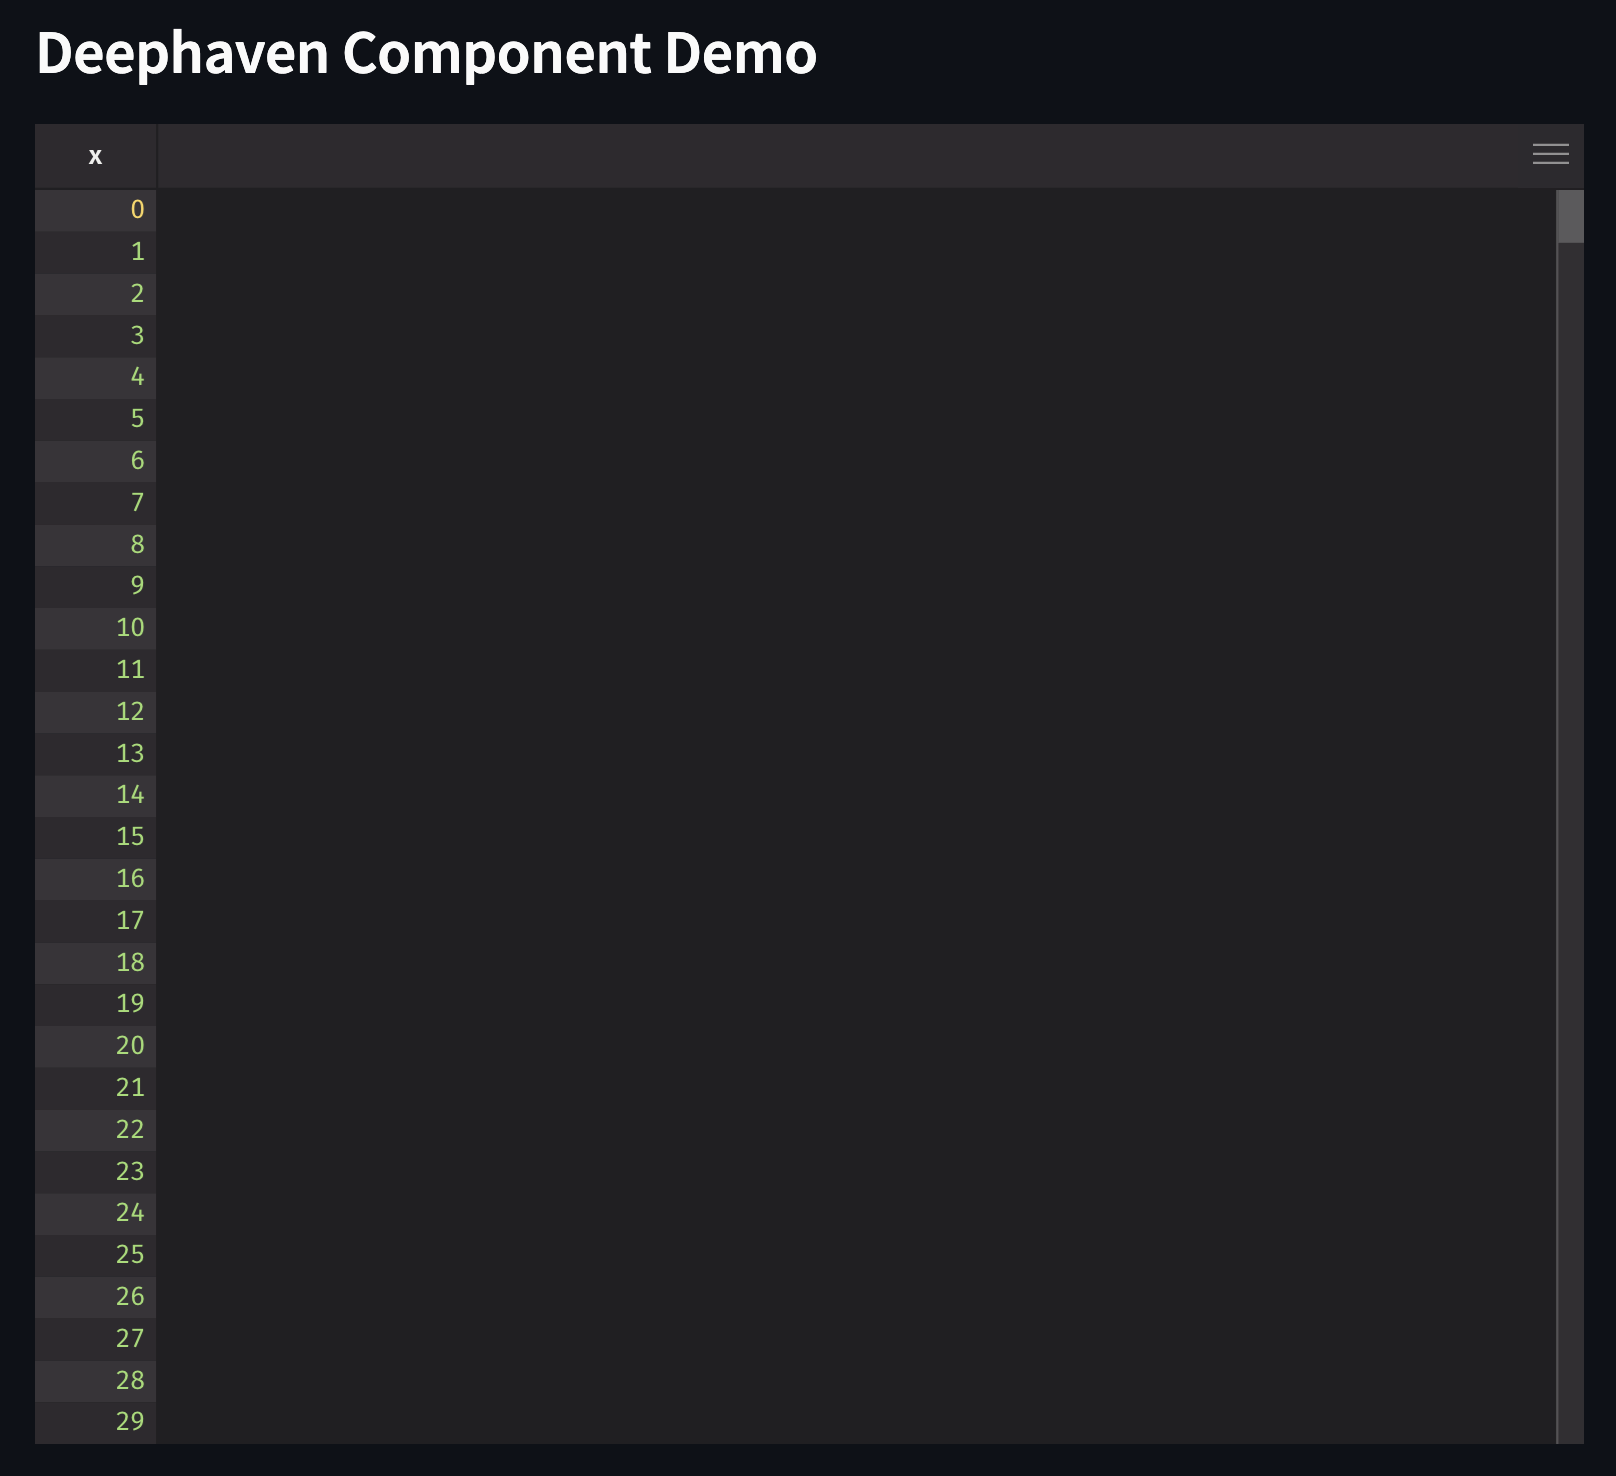
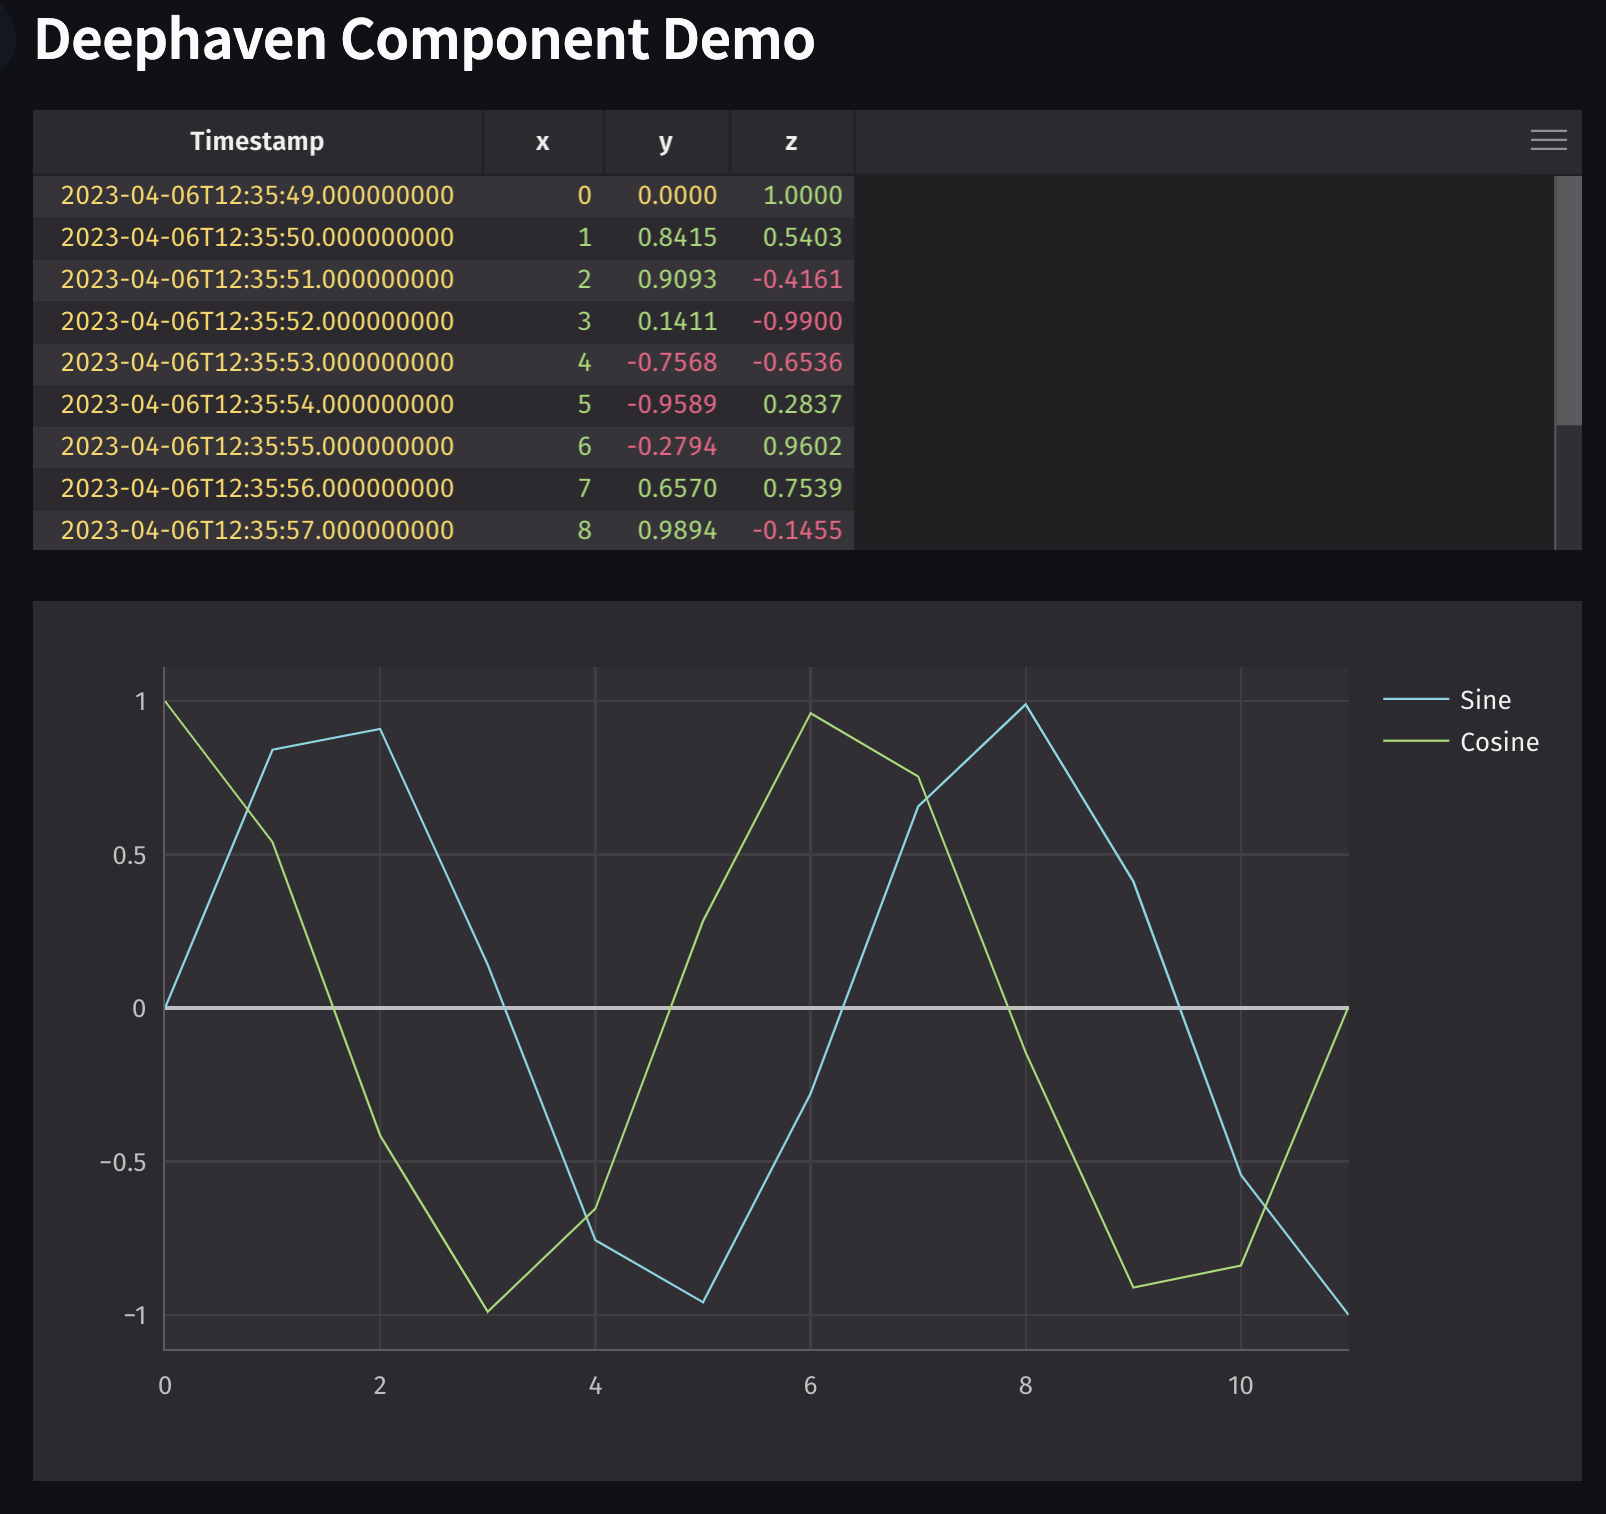
Deephaven contexts (#1)
* Update project name to `streamlit-deephaven`
* Use `display_dh` instead of `deephaven_component`
* Add `start_server` method to start the server and open the context
* Update the README and development guide

diff --git a/streamlit_deephaven/__init__.py b/streamlit_deephaven/__init__.py
@@ -2,12 +2,10 @@ import __main__
 import os
 import streamlit.components.v1 as components
 from uuid import uuid4
+import streamlit as st
+from typing import Dict, List, Optional
 
-# Create a _RELEASE constant. We'll set this to False while we're developing
-# the component, and True when we're ready to package and distribute it.
-# (This is, of course, optional - there are innumerable ways to manage your
-# release process.)
-_RELEASE = False
+DEV_MODE = os.environ.get("DH_DEV_MODE", False)
 
 def _str_object_type(obj):
   """Returns the object type as a string value"""
@@ -23,22 +21,49 @@ def _path_for_object(obj):
     return 'chart'
   raise TypeError(f"Unknown object type: {name}")
 
+def open_ctx():
+  """Open the Deephaven execution context. Required before performing any operations on the server."""
+  from deephaven_server import Server
+  # We store the execution context as an attribute on the server instance
+  if not hasattr(Server.instance, '__deephaven_ctx'):
+    print("Initializing Context...")
+
+    from deephaven.execution_context import get_exec_ctx
+    Server.instance.__deephaven_ctx = get_exec_ctx()
+  print("Opening context...")
+  Server.instance.__deephaven_ctx.j_exec_ctx.open()
+  return Server.instance.__deephaven_ctx
+
+def start_server(host: Optional[str] = None, port: Optional[int] = None, jvm_args: Optional[List[str]] = None, dh_args: Dict[str, str] = {}):
+  """Initialize the Deephaven server. This will start the server if it is not already running."""
+  from deephaven_server import Server
+  if Server.instance is None:
+    print("Initializing Deephaven Server...")
+    s = Server(host=host, port=port, jvm_args=jvm_args, dh_args=dh_args)
+    s.start()
+    print("Deephaven Server listening on port", s.port)
+
+  open_ctx()
+  return Server.instance
+
 # Create a wrapper function for the component. This is an optional
 # best practice - we could simply expose the component function returned by
 # `declare_component` and call it done. The wrapper allows us to customize
 # our component's API: we can pre-process its input args, post-process its
 # output value, and add a docstring for users.
-def deephaven_component(deephaven_object, height=600, width=None, key=None):
-    """Create a new instance of "deephaven_component".
+def display_dh(widget, height=600, width=None, object_id=None, key=None):
+    """Display a Deephaven widget.
 
     Parameters
     ----------
-    table: deephaven.table.Table | deephaven.plot.figure.Figure | pandas.core.frame.DataFrame
+    widget: deephaven.table.Table | deephaven.plot.figure.Figure | pandas.core.frame.DataFrame
         The Deephaven widget we want to display
     height: int
         The height of the widget in pixels
     width: int
         The width of the widget in pixels
+    object_id: string
+        The variable name of the Deephaven widget we want to display
     key: str or None
         An optional key that uniquely identifies this component. If this is
         None, and the component's arguments are changed, the component will
@@ -59,18 +84,17 @@ def deephaven_component(deephaven_object, height=600, width=None, key=None):
     # "default" is a special argument that specifies the initial return
     # value of the component before the user has interacted with it.
 
-    # Generate a new table ID using a UUID prepended with a `t_` prefix
-    object_id = f"t_{str(uuid4()).replace('-', '_')}"
+    # Generate a new table ID using a UUID prepended with a `__w_` prefix if name not specified
+    if object_id is None:
+        object_id = f"__w_{str(uuid4()).replace('-', '_')}"
 
-    print("Setting iframe_url...")
     # Generate the iframe_url from the object type
     server_url = f"http://localhost:{Server.instance.port}"
-    iframe_url = f"{server_url}/iframe/{_path_for_object(deephaven_object)}/?name={object_id}"
-    object_type = _str_object_type(deephaven_object)
-
+    iframe_url = f"{server_url}/iframe/{_path_for_object(widget)}/?name={object_id}"
+    object_type = _str_object_type(widget)
 
     # Add the table to the main modules globals list so it can be retrieved by the iframe
-    __main__.__dict__[object_id] = deephaven_object
+    __main__.__dict__[object_id] = widget
 
     # We don't really need the component value in the Deephaven example, since we're just creating a display widget...
     # Maybe if we were making a one click widget, that would make sense...
@@ -80,25 +104,21 @@ def deephaven_component(deephaven_object, height=600, width=None, key=None):
 
 # Add some test code to play with the component while it's in development.
 # During development, we can run this just as we would any other Streamlit
-# app: `$ streamlit run deephaven_component/__init__.py`
-if not _RELEASE:
-    import streamlit as st
-    
-    @st.cache_resource
-    def init_server():
-        print("Starting Deephaven Server...")
-        # Start up the Deephaven Server
-        from deephaven_server import Server
-        s = Server(port=8899)
-        s.start()
-        print("Deephaven Server started!")
-        return s
-    s = init_server()
+# app: `$ DH_DEV_MODE=true streamlit run streamlit_deephaven/__init__.py`
+if DEV_MODE:
+  import streamlit as st
+  
+  start_server()
 
-    st.subheader("Deephaven Component Demo")
+  st.subheader("Deephaven Component Demo")
 
-    # Create a deephaven component with a simple table
-    # Create a table and display it
-    from deephaven import empty_table
-    t = empty_table(1000).update("x=i")
-    deephaven_component(t)
+  # Create a deephaven component with a simple table
+  # Create a table and display it
+  from deephaven import time_table
+  from deephaven.plot.figure import Figure
+  t = time_table("00:00:01").update(["x=i", "y=Math.sin(x)", "z=Math.cos(x)"])
+  display_dh(t, height=200)
+
+  f = Figure().plot_xy(series_name="Sine", t=t, x="x", y="y").show()
+  f = f.plot_xy(series_name="Cosine", t=t, x="x", y="z").show()
+  display_dh(f, height=400)

diff --git a/setup.py b/setup.py
@@ -1,12 +1,12 @@
 import setuptools
 
 setuptools.setup(
-    name="deephaven-streamlit",
-    version="0.0.1",
+    name="streamlit-deephaven",
+    version="0.0.5-dev0",
     author="Deephaven Data Labs",
     author_email="support@deephaven.io",
-    description="Deephaven Streamlit Component",
-    long_description="",
+    description="Streamlit Deephaven Component",
+    long_description="Use Deephaven within Streamlit and display widgets",
     long_description_content_type="text/plain",
     url="https://github.com/deephaven/streamlit-deephaven",
     packages=setuptools.find_packages(),
@@ -18,5 +18,6 @@ setuptools.setup(
         # If your component has other Python dependencies, list
         # them here.
         "streamlit >= 0.63",
+        "deephaven-server >= 0.23.0",
     ],
 )

diff --git a/README.md b/README.md
@@ -1,30 +1,44 @@
 # Deephaven Streamlit Component
 
-This component displays Deephaven widgets within streamlit
+This component displays Deephaven widgets within Streamlit.
 
 ## Quickstart
 
-Uses the [Streamlit component-template](https://github.com/streamlit/component-template).
-
-- Create a new Python virtual environment for the template:
+1. In a new folder, set up your [Streamlit environment](https://docs.streamlit.io/library/get-started/installation) and install the `streamlit-deephaven` package:
 
 ```
-$ cd template
-$ python3 -m venv .venv  # create venv
-$ source .venv/bin/activate   # activate venv
-$ pip install streamlit # install streamlit
-$ pip install deephaven-server #install Deephaven server
+python -m venv .venv
+source .venv/bin/activate
+pip install streamlit-deephaven
 ```
 
-- From a separate terminal, run the template's Streamlit app:
+2. Create your first deephaven application, named `deephaven_app.py`:
 
 ```
-$ source .venv/bin/activate  # activate the venv you created earlier
-$ streamlit run deephaven_component/__init__.py  # run the example
+import streamlit as st
+from streamlit_deephaven import start_server, display_dh
+
+# Start the Deephaven server. You must start the server before running any Deephaven operations.
+start_server()
+
+st.subheader("Streamlit Deephaven")
+
+# Create a simple table.
+from deephaven import empty_table
+t = empty_table(1000).update(["x=i", "y=x * x"])
+
+# Display the table.
+display_dh(t)
 ```
 
-- If all goes well, you should see something like this:
+3. Run the streamlit application:
 
-![Quickstart Success](quickstart.png)
+```
+streamlit run deephaven_app.py
+```
 
-- Modify the Python code at `deephaven_component/__init__.py`.
+For more information on running Streamlit, see the [Streamlit documentation](https://docs.streamlit.io/).
+
+## Development
+
+See [development guide](./development.md) for instructions on how to develop this package.

diff --git a/development.md b/development.md
@@ -1,0 +1,60 @@
+# Development Quickstart
+
+Uses the [Streamlit component-template](https://github.com/streamlit/component-template).
+
+- Create a new Python virtual environment for the template:
+
+```
+$ cd template
+$ python3 -m venv .venv         # create venv
+$ source .venv/bin/activate     # activate venv
+$ pip install streamlit         # install streamlit
+$ pip install deephaven-server  # install Deephaven server
+```
+
+- From a separate terminal, run the template's Streamlit app:
+
+```
+$ source .venv/bin/activate  # activate the venv you created earlier
+$ DH_DEV_MODE=true streamlit run streamlit_deephaven/__init__.py  # run the example
+```
+
+- If all goes well, you should see something like this:
+
+![Quickstart Success](quickstart.png)
+
+- Modify the Python code at `streamlit_deephaven/__init__.py`.
+
+# Publishing
+
+## Publishing to TestPyPi
+
+Instructions from https://docs.streamlit.io/library/components/publish#upload-your-wheel-to-pypi
+
+```
+pip install wheel twine
+python setup.py sdist bdist_wheel
+python -m twine upload --repository testpypi dist/*
+```
+
+You can then install the test component in a new, different python project to ensure it's working:
+
+```
+python -m pip install --index-url https://test.pypi.org/simple/ --no-deps streamlit-deephaven
+```
+
+## Publishing to PyPi
+
+When you're ready to publish to PyPi, follow similar steps to uploading to TestPyPi.
+
+```
+pip install wheel twine
+python setup.py sdist bdist_wheel
+python -m twine upload dist/*
+```
+
+You can then install the test component in a new, different python project to ensure it's working:
+
+```
+python -m pip install --index-url https://test.pypi.org/simple/ --no-deps streamlit-deephaven
+```
